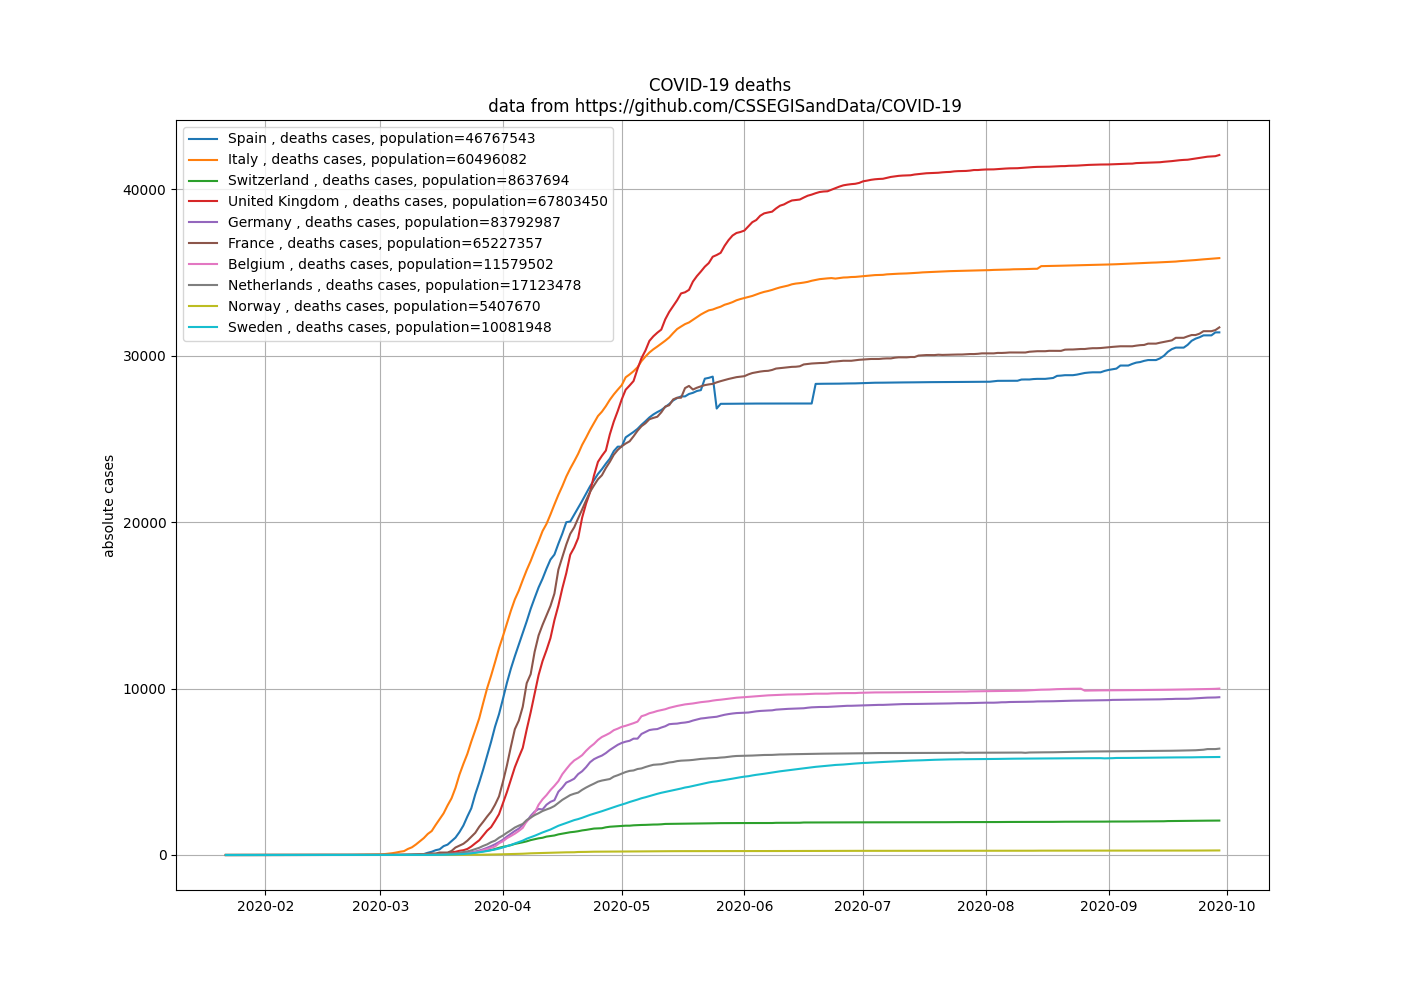
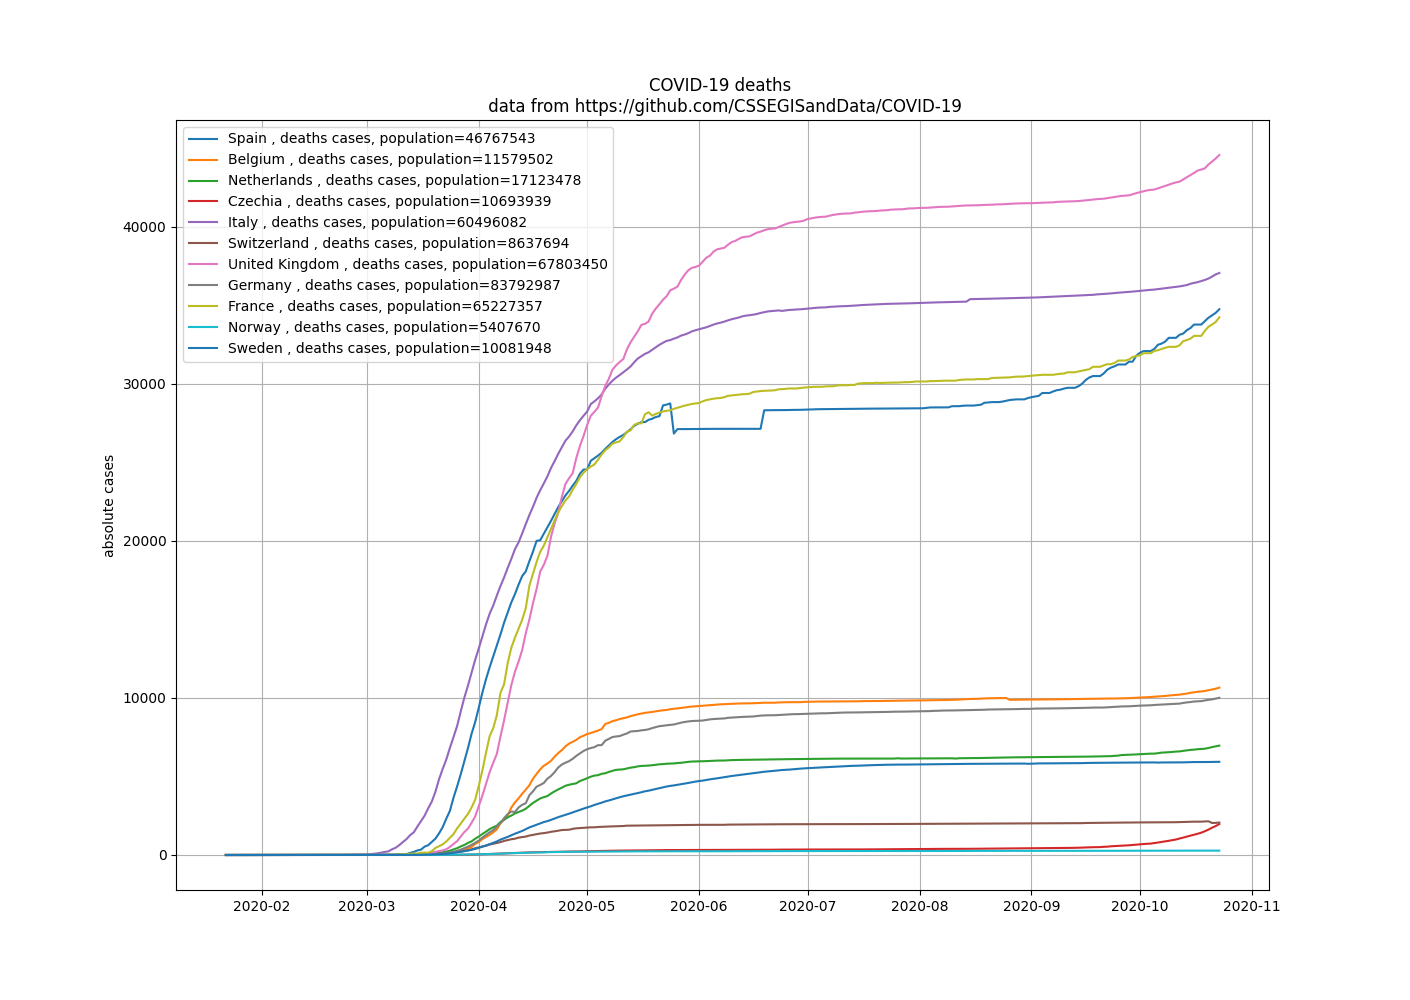
czechia update

diff --git a/simple_visualization.py b/simple_visualization.py
@@ -36,6 +36,8 @@ class Covid(object):
         belgium = {'data_type':'confirmed', 'data_line':self.data_line('Belgium', ''), 'population':11579502, 'population_source':POP_DATA_SOURCE_EUROPE}
         austria = {'data_type':'confirmed', 'data_line':self.data_line('Austria', ''), 'population':8999973, 'population_source':POP_DATA_SOURCE_EUROPE}
         uk = {'data_type':'confirmed', 'data_line':self.data_line('United Kingdom', ''), 'population': 	67803450, 'population_source':POP_DATA_SOURCE_EUROPE}
+        czechia = {'data_type':'confirmed', 'data_line':self.data_line('Czechia', ''), 'population': 	10693939, 'population_source':POP_DATA_SOURCE_EUROPE}
+
 
         us = {'data_type':'confirmed', 'data_line':self.data_line('US', ''), 'population': 329.45e9 , 'population_source':'https://worldpopulationreview.com/countries/united-states-population/'}
         iran = {'data_type':'confirmed', 'data_line':self.data_line('Iran', ''), 'population':82913906, 'population_source':'https://en.wikipedia.org/wiki/Demographics_of_Iran'}
@@ -43,7 +45,7 @@ class Covid(object):
 
 
         #country_list = [spain, italy, switzerland, norway, denmark, sweden, austria, uk, germany, france, netherlands, belgium, us, iran, south_korea]
-        country_list = [spain, italy, switzerland, uk, germany, france, belgium, netherlands, norway,sweden]
+        country_list = [spain, belgium, netherlands, czechia, italy, switzerland, uk, germany, france,  norway, sweden]
        
 
         filename = 'relative_cases.png'
